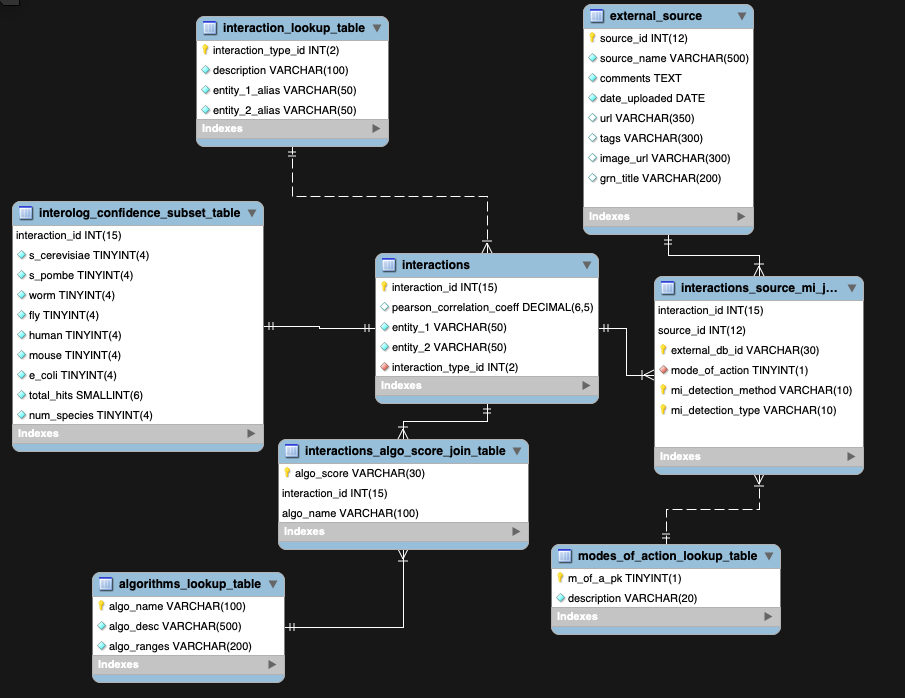
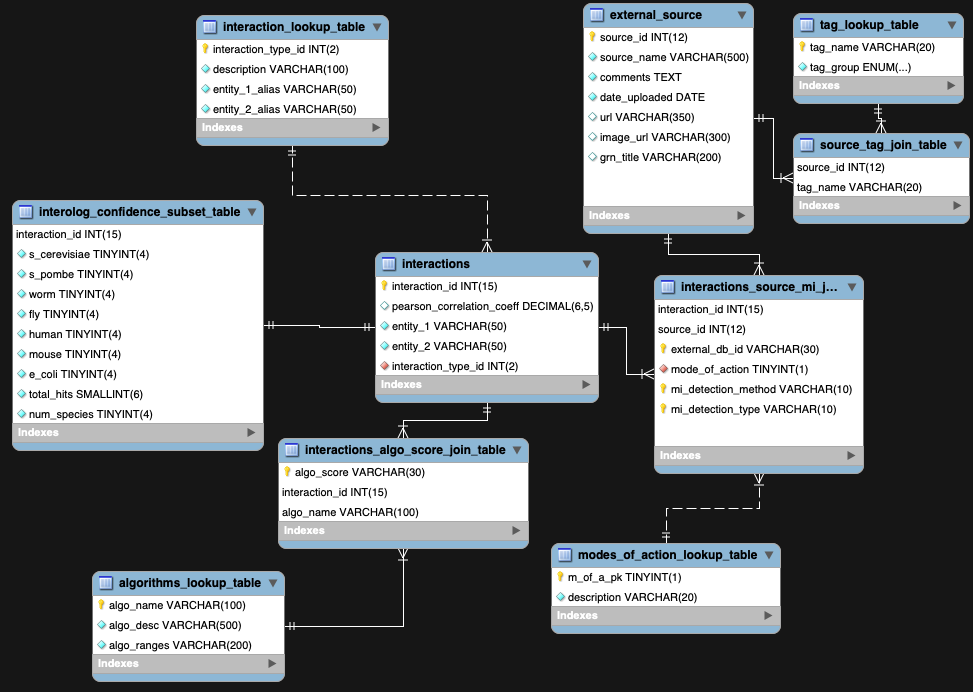
Added tag tables

diff --git a/README.md b/README.md
@@ -57,6 +57,14 @@ Table which will store all the unique sources (usually a paper, but not always) 
 
 A table that offers a join for interactions and sources (along with MI terms - a controlled vocabulary for experiments by EMBL). That is, one interaction can be referenced by more than one paper. This table is necessary for efficient querying of <b> (1) How many interactions exist in a paper </b> and <b> (2) Fetching the individual interactions of a paper for visualization. </b>
 
+### Tag Lookup Table (tag\_lookup\_table)
+
+Lookup table for each tag so we can easily categorize them for our front-end app. I.e. group tags like 'Y1H, Y2H, CHIP' under 'experiment' for categorization for the user. Note that since the tag_name is the PK and MySQL is case-insensitive by default, we won't get 'chIP' and 'CHIP' duplicated.
+
+### Source Tag Join Table (source\_tag\_join\_table)
+
+As one paper may have many tags, create a join table where the FKs are the source id and tag_name.
+
 ## Database migration checks:
 
 You can run these individually via the commands below or use `npm run test` to run the whole Jest suite.
